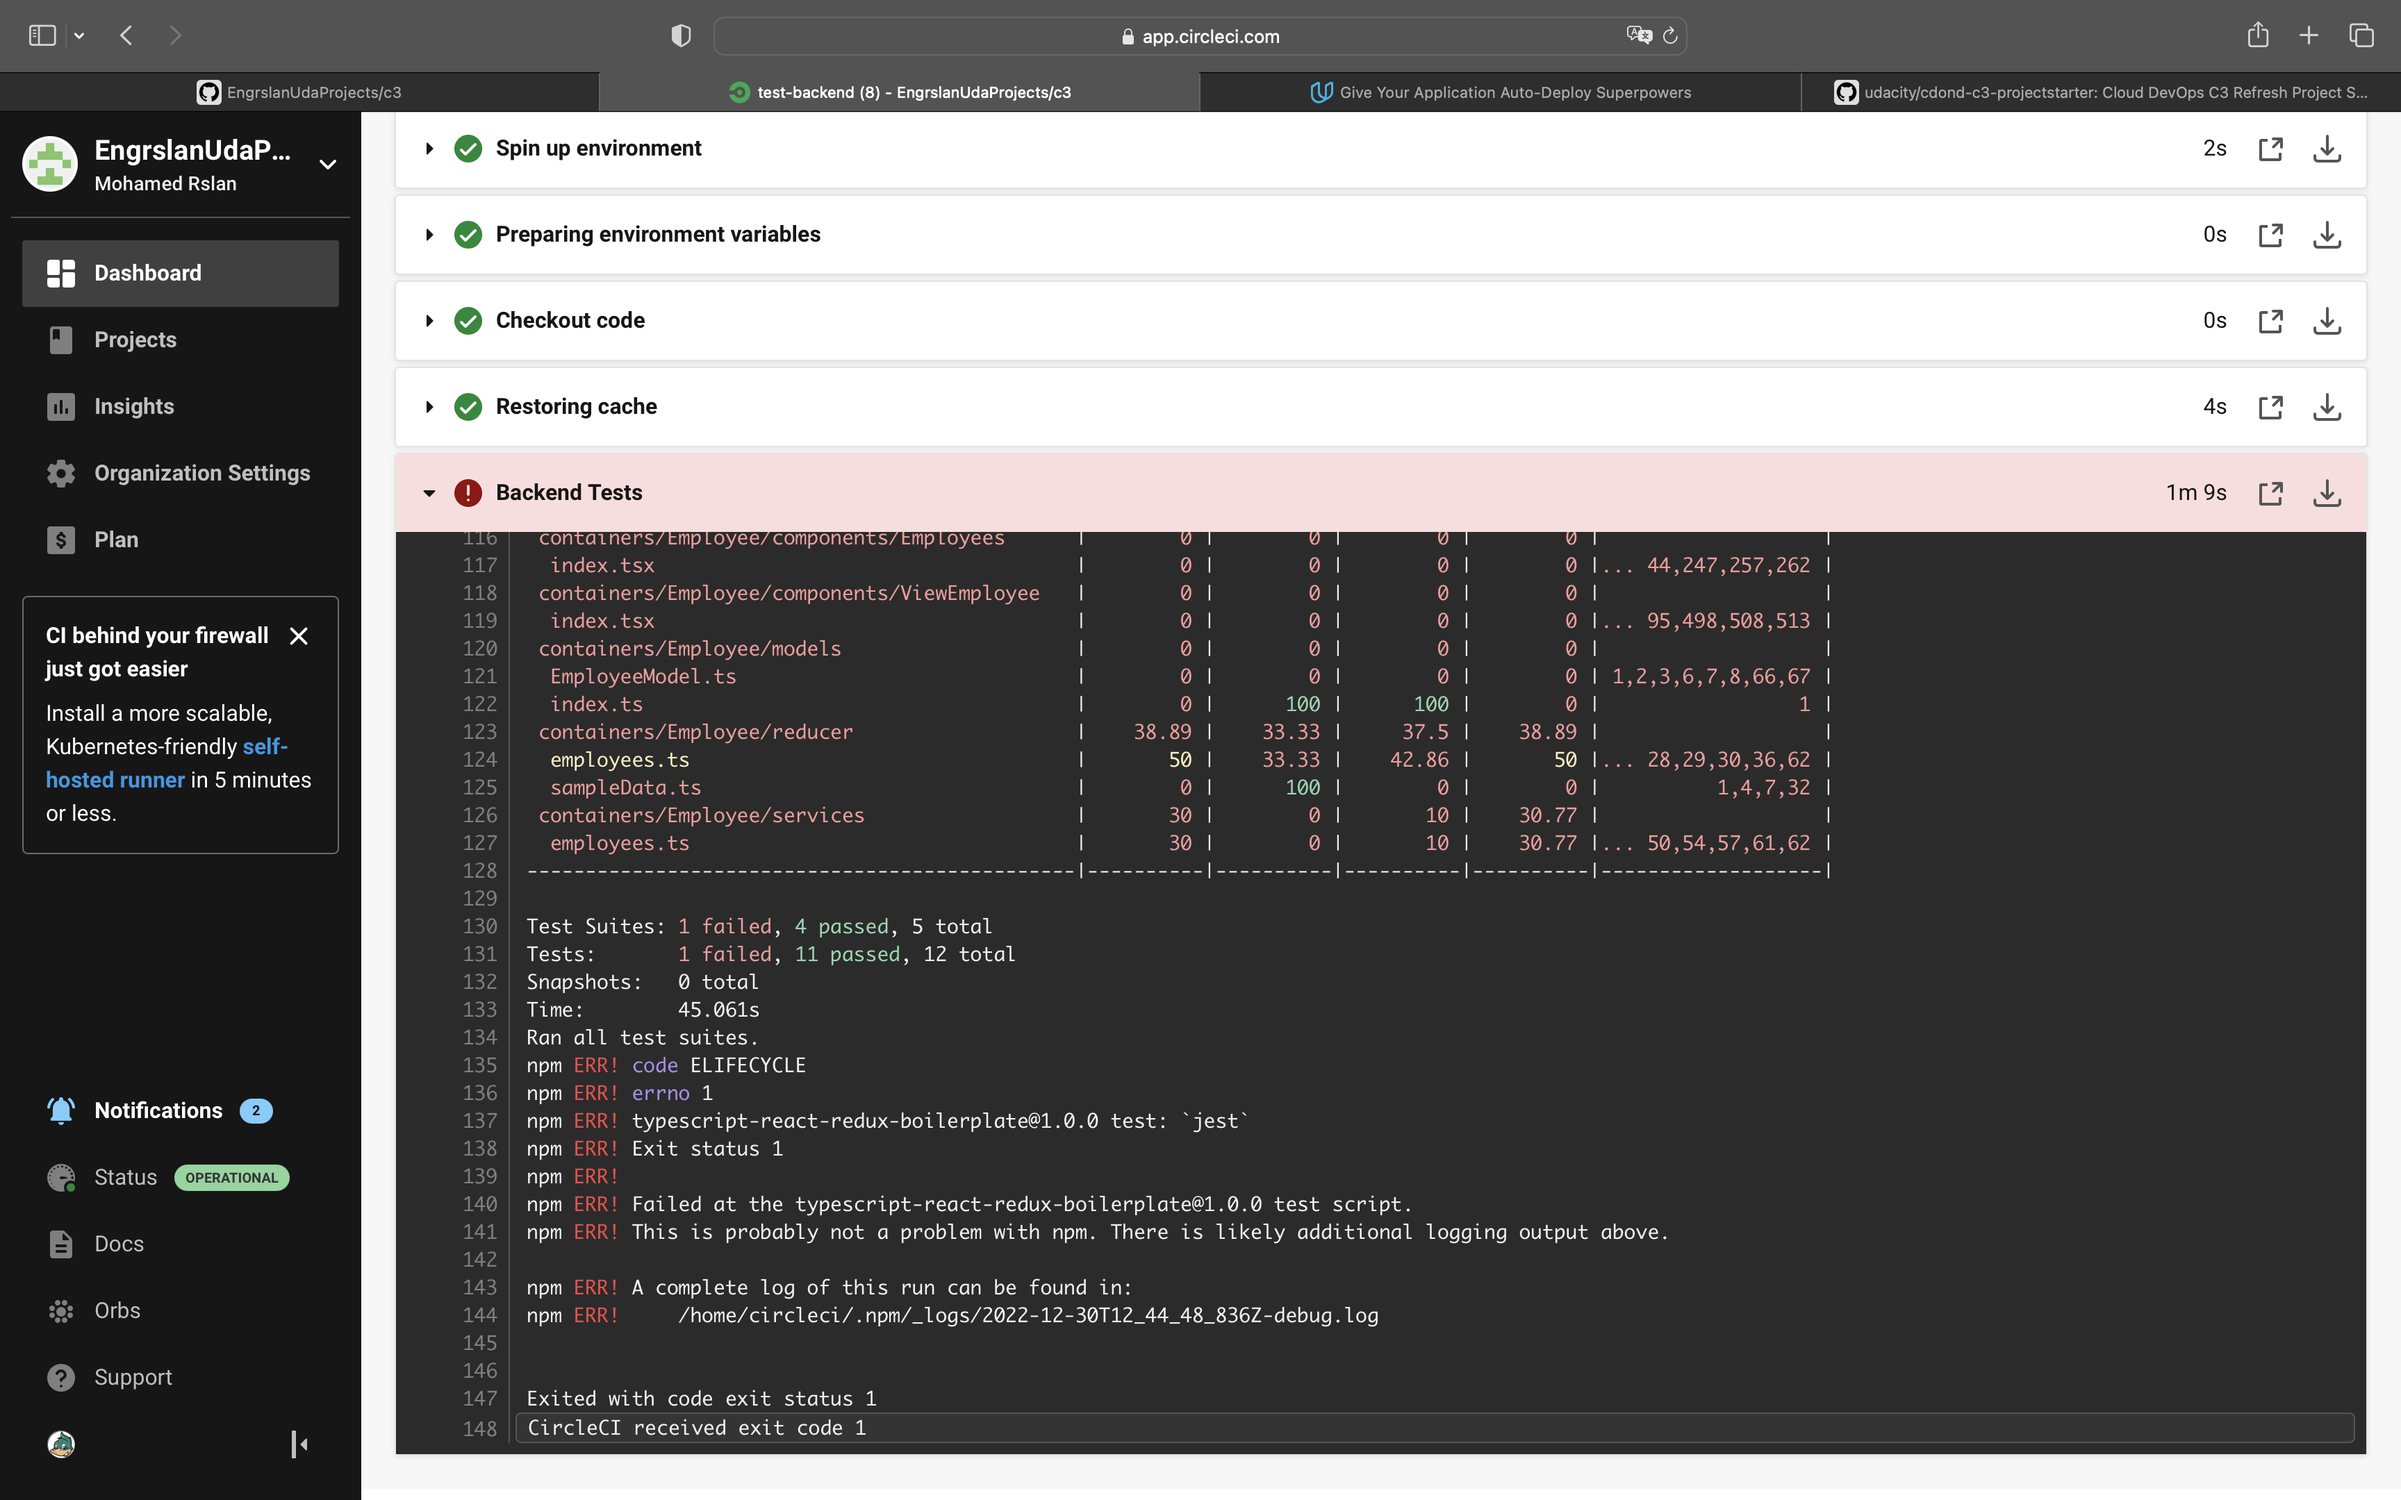
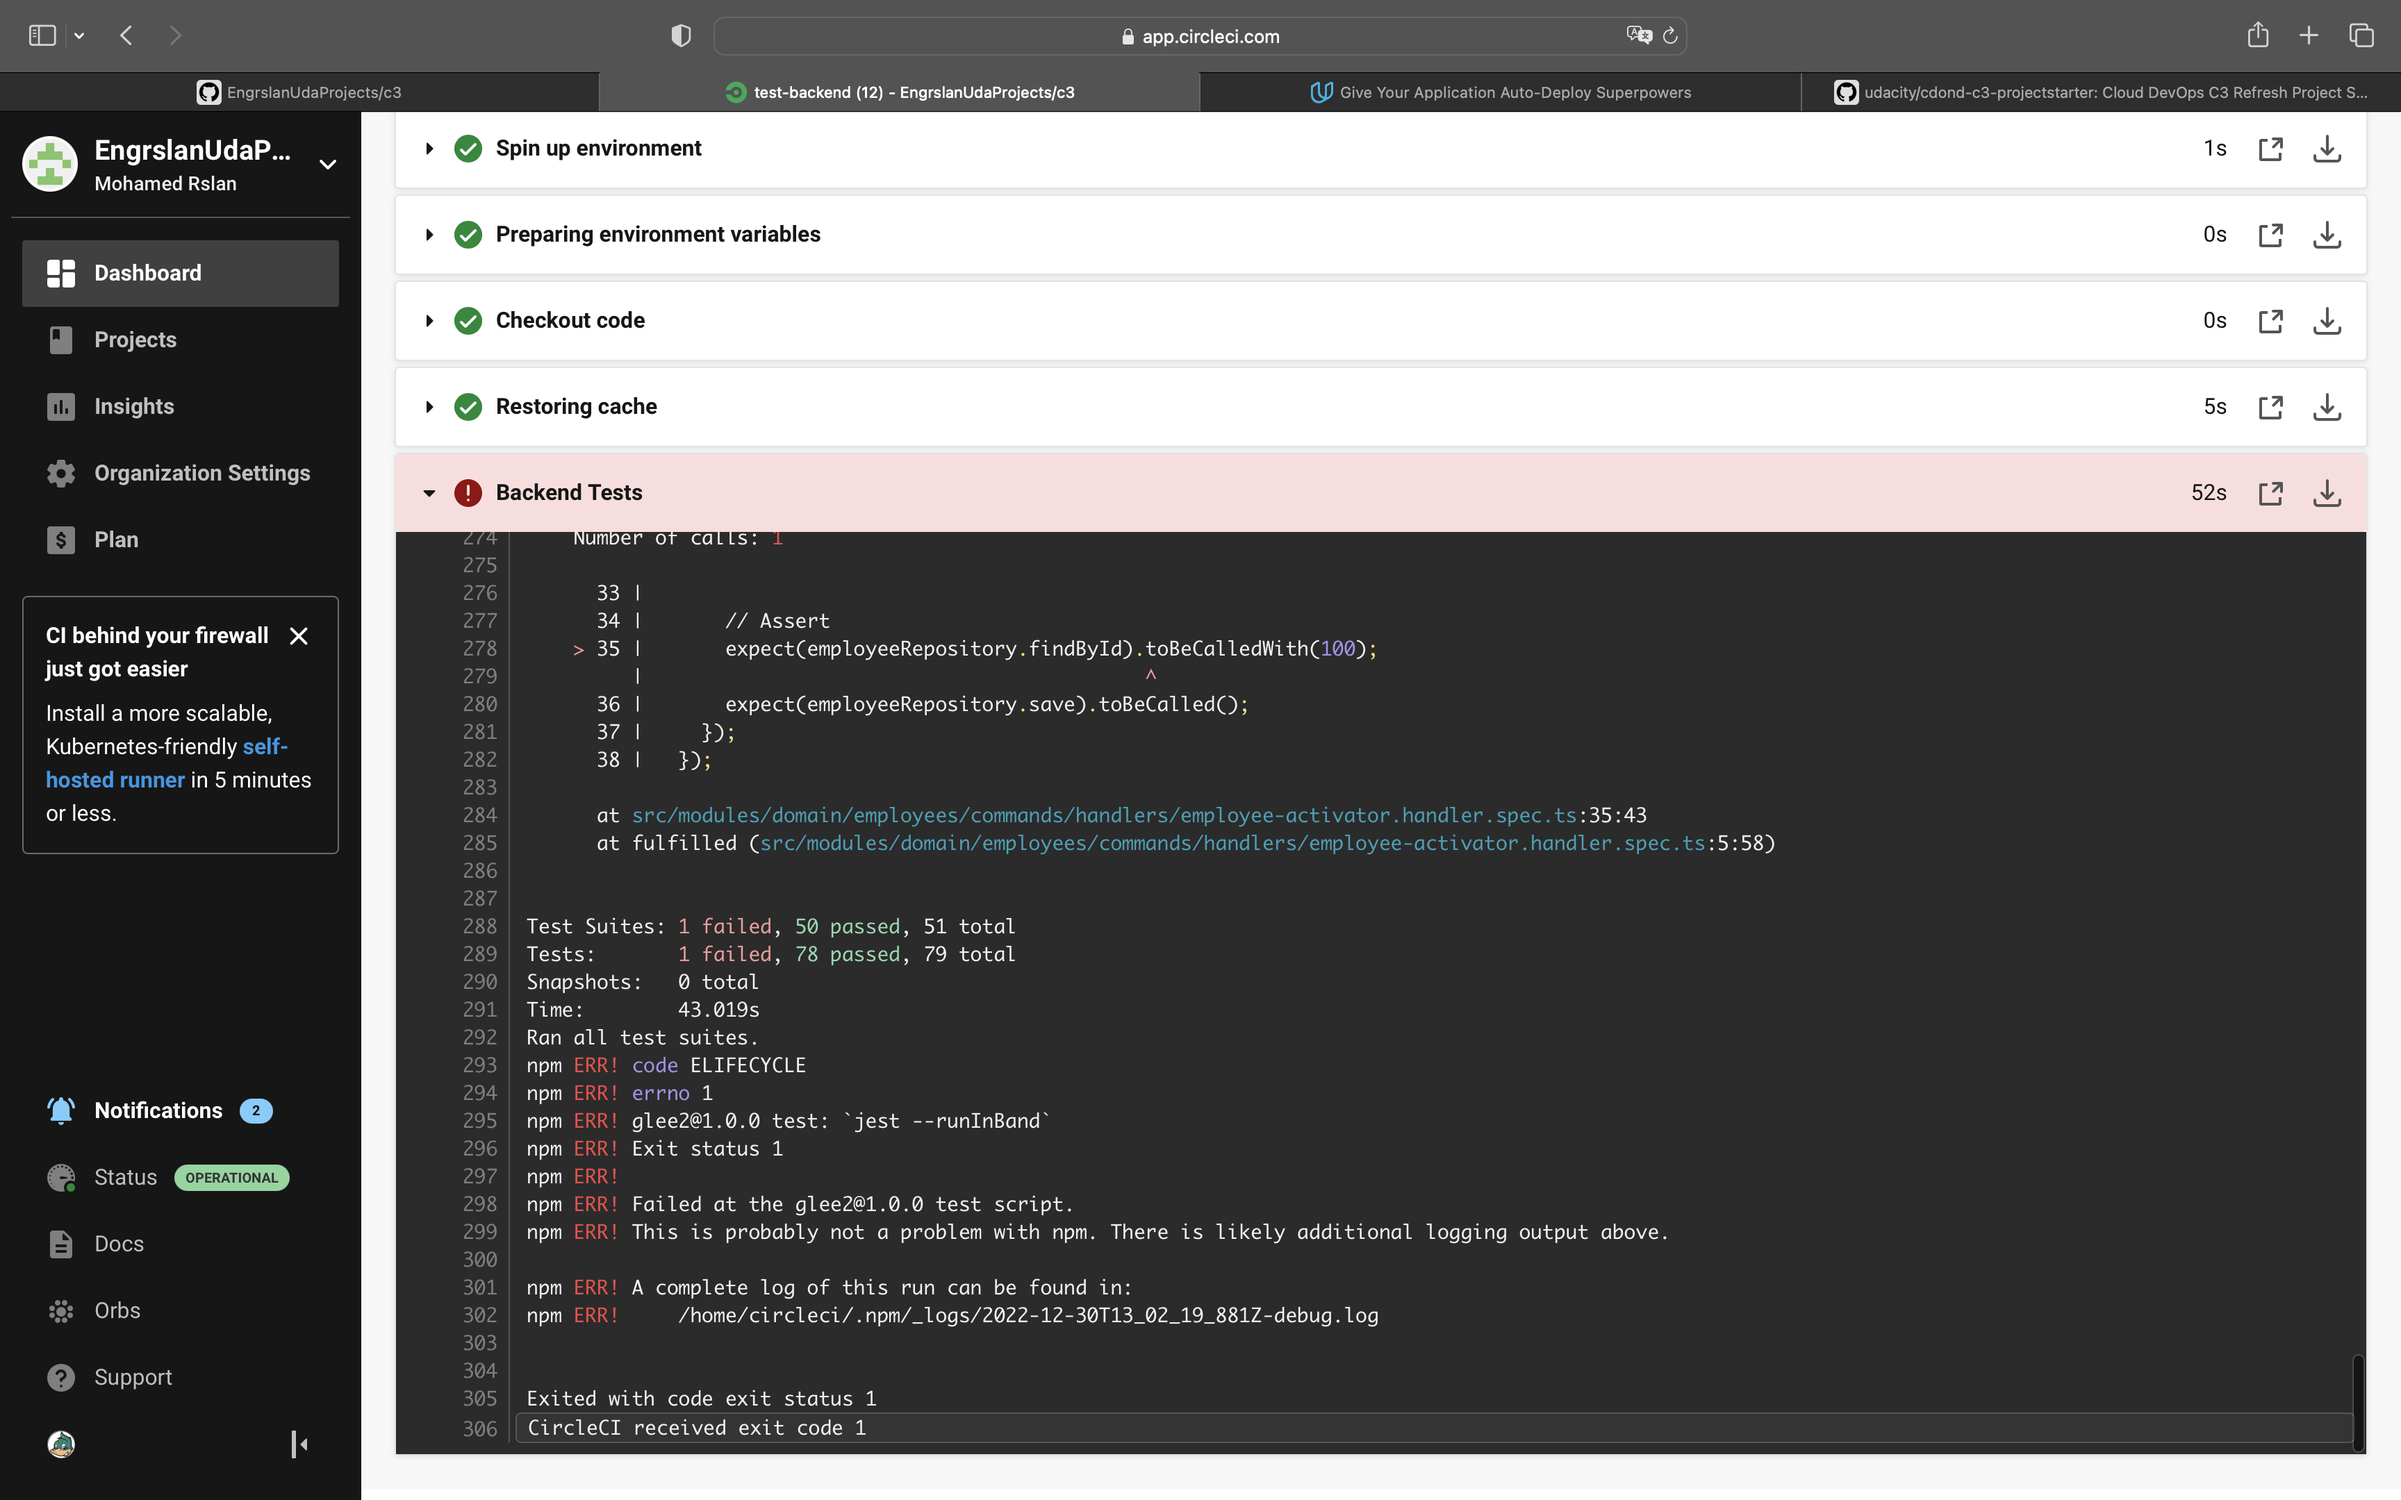
fix tests

diff --git a/frontend/src/app/components/LoadingMessage/LoadingMessage.spec.tsx b/frontend/src/app/components/LoadingMessage/LoadingMessage.spec.tsx
@@ -8,7 +8,7 @@ describe('<LoadingMessage>', () => {
       it('Should render the props message', () => {
         const message = 'Hello!';
         const wrapper = shallow(<LoadingMessage message={message} />);
-        expect(wrapper.contains(<span>{message}?</span>)).toBeTruthy(); //remove the question mark to make the test pass
+        expect(wrapper.contains(<span>{message}</span>)).toBeTruthy(); //remove the question mark to make the test pass
       });
     });
   });

diff --git a/backend/src/modules/domain/employees/commands/handlers/employee-activator.handler.spec.ts b/backend/src/modules/domain/employees/commands/handlers/employee-activator.handler.spec.ts
@@ -19,7 +19,7 @@ describe('Employee Remover', () => {
       const handler = new EmployeeActivator(employeeRepository);
 
       const params = {
-        employeeId: 101, //change this to 100 to make the test pass
+        employeeId: 100, //change this to 100 to make the test pass
         isActive: false,
       };
 
